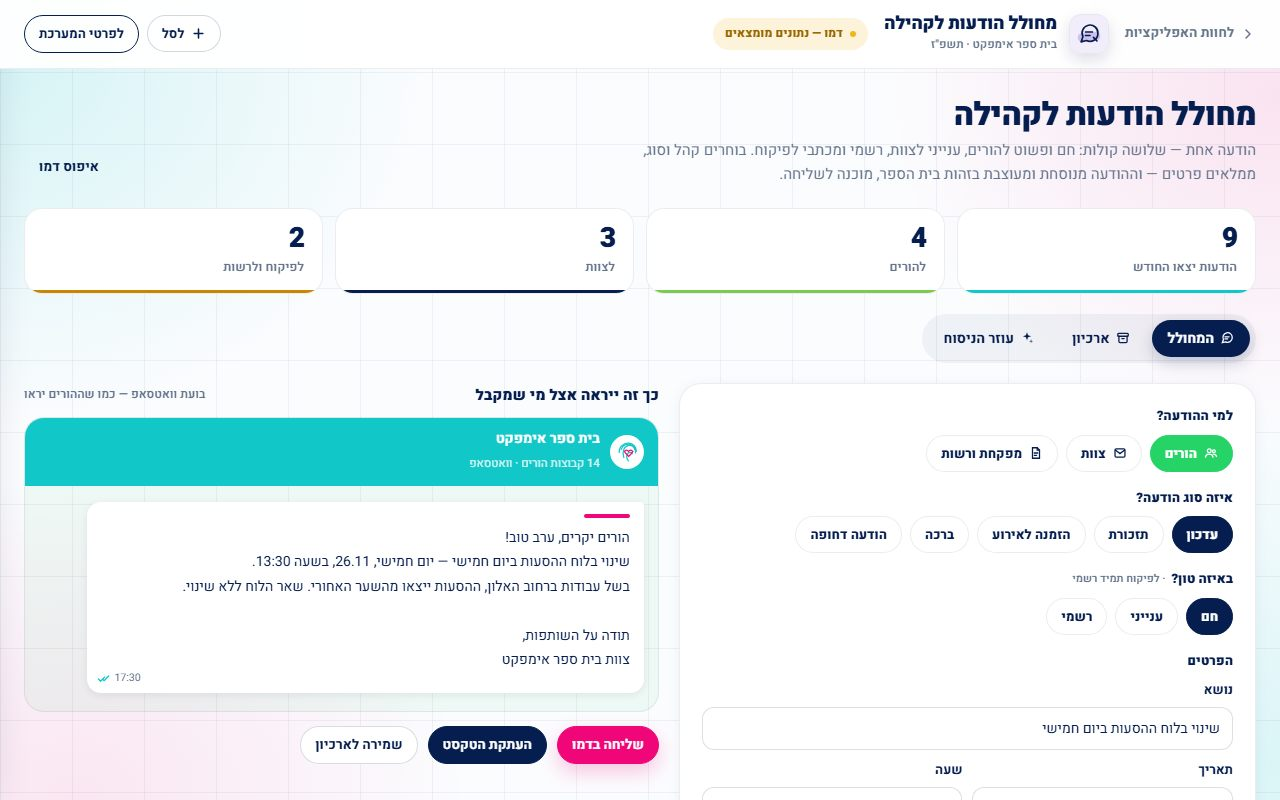
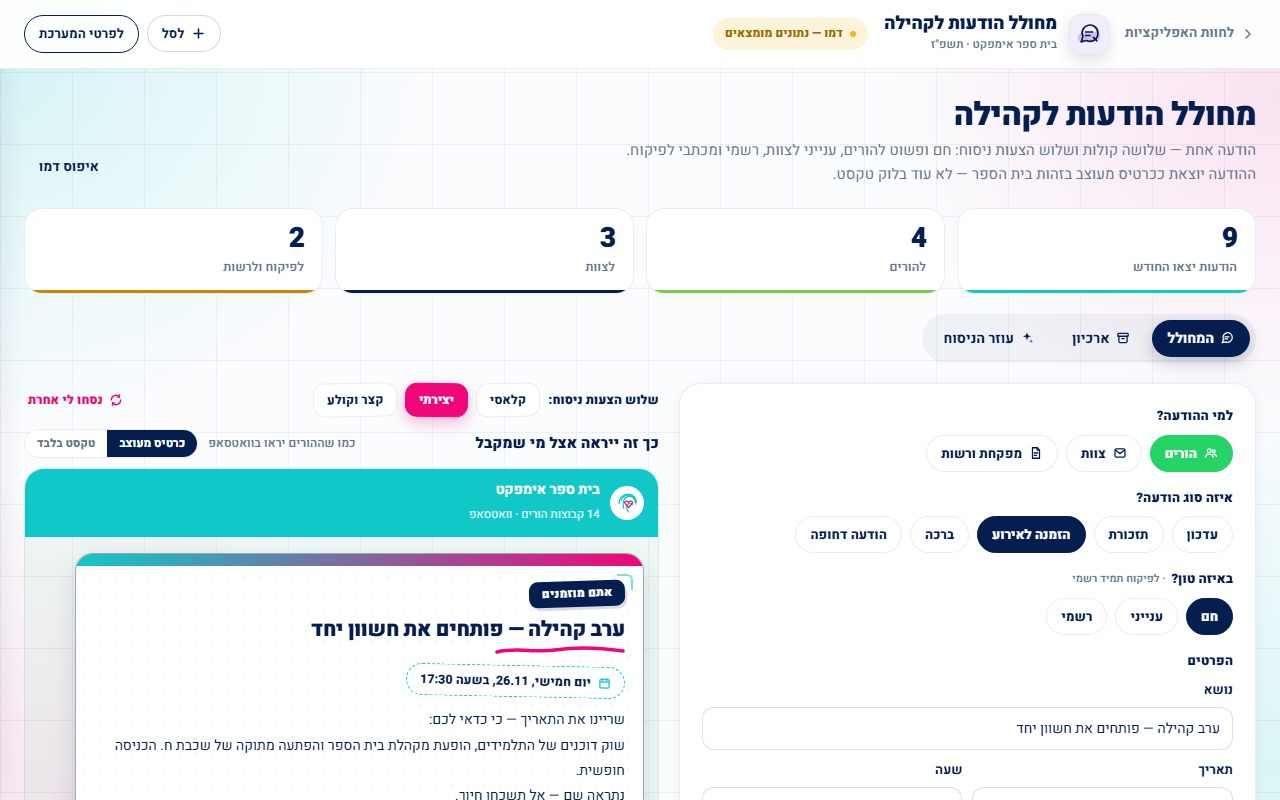
feat(message-composer): creative variants + designed studio cards
- שלוש הצעות ניסוח: קלאסי / יצירתי / קצר וקולע + "נסחו לי אחרת" (בנק פתיחים וסגירים)
- הפלט = כרטיס מעוצב בשפת הסטודיו: פס-גרדיאנט, סטיקר, קו-שרבוט, חותמת-תאריך,
  ניצוצות לברכה, פסי-אזהרה לדחוף; טוגל כרטיס/טקסט
- מכתב לפיקוח: ווטרמרק, פס-זהות עליון, הנדון עם היילייטר
- הודעה דחופה יצירתית = "העיקר בשלוש שורות" (מה קרה/מתי/מה עושים)

diff --git a/demo/message-composer.html b/demo/message-composer.html
@@ -41,12 +41,25 @@
   .pal.on { border-color: var(--navy); box-shadow: 0 0 0 2px #fff inset; }
   .pal-note { font-size: 11.5px; color: var(--gray); font-weight: 600; }
 
-  /* ─── תצוגה מקדימה ─── */
+  /* ─── שלוש ההצעות ─── */
+  .var-bar { display: flex; align-items: center; gap: 8px; flex-wrap: wrap; margin-bottom: 12px; }
+  .var-bar .lbl { font-size: 12.5px; font-weight: 900; color: var(--navy); }
+  .vpk { border: 1.5px solid var(--line); background: #fff; border-radius: 12px; padding: 7px 13px; font-family: inherit; font-size: 12.5px; font-weight: 800; color: var(--navy); cursor: pointer; transition: all 200ms var(--motion-ease); transform: rotate(-1deg); }
+  .vpk:nth-child(odd) { transform: rotate(1deg); }
+  .vpk:hover { transform: translateY(-2px); }
+  .vpk.on { background: var(--fuchsia); border-color: var(--fuchsia); color: #fff; box-shadow: 0 6px 16px rgba(240,6,120,.28); }
+  .shuffle { display: inline-flex; align-items: center; gap: 6px; border: none; background: none; color: var(--fuchsia); font-family: inherit; font-size: 12.5px; font-weight: 900; cursor: pointer; padding: 6px 4px; margin-inline-start: auto; }
+  .shuffle svg { width: 14px; height: 14px; transition: transform 400ms var(--motion-ease); }
+  .shuffle:hover svg { transform: rotate(180deg); }
+
   .prev-head { display: flex; align-items: center; justify-content: space-between; gap: 10px; margin-bottom: 10px; flex-wrap: wrap; }
   .prev-head h3 { font-size: 15px; font-weight: 900; }
   .prev-head .hint { font-size: 12px; color: var(--gray); font-weight: 600; }
+  .vw-toggle { display: inline-flex; border: 1px solid var(--line); border-radius: 999px; overflow: hidden; }
+  .vw-toggle button { border: none; background: #fff; font-family: inherit; font-size: 11.5px; font-weight: 800; color: var(--gray); padding: 5px 12px; cursor: pointer; }
+  .vw-toggle button.on { background: var(--navy); color: #fff; }
 
-  /* וואטסאפ */
+  /* ─── מסגרת וואטסאפ ─── */
   .wa { border: 1px solid var(--line); border-radius: 20px; overflow: hidden; background: rgba(37,211,102,.06); }
   .wa-top { display: flex; align-items: center; gap: 10px; padding: 10px 14px; background: var(--pc1, var(--teal)); color: #fff; }
   .wa-top .mark { width: 34px; height: 34px; border-radius: 50%; background: #fff; display: grid; place-items: center; flex: none; }
@@ -55,12 +68,36 @@
   .wa-top small { font-size: 11.5px; opacity: .85; }
   .wa-body { padding: 16px 14px 18px; min-height: 220px; }
   .bubble { position: relative; background: #fff; border-radius: 14px; border-top-right-radius: 4px; padding: 12px 14px 20px; max-width: 92%; box-shadow: 0 2px 8px rgba(6,30,79,.08); font-size: 14px; line-height: 1.75; white-space: pre-line; }
-  .bubble .accent { display: block; width: 46px; height: 4px; border-radius: 999px; background: var(--pc2, var(--fuchsia)); margin-bottom: 8px; }
-  .bubble .meta { position: absolute; bottom: 5px; left: 10px; display: flex; align-items: center; gap: 4px; font-size: 10.5px; color: var(--gray); }
-  .bubble .meta svg { width: 13px; height: 13px; color: var(--teal); }
+  .bubble .meta, .card-wrap .meta { position: absolute; bottom: 5px; left: 10px; display: flex; align-items: center; gap: 4px; font-size: 10.5px; color: var(--gray); }
+  .bubble .meta svg, .card-wrap .meta svg { width: 13px; height: 13px; color: var(--teal); }
+  .card-wrap { position: relative; max-width: 94%; padding-bottom: 20px; }
 
-  /* מכתב רשמי */
-  .letter { background: #fff; border: 1px solid var(--line); border-radius: 20px; padding: 28px 30px; box-shadow: 0 14px 36px rgba(6,30,79,.07); }
+  /* ─── הכרטיס המעוצב — שפת הסטודיו ─── */
+  .msgcard { position: relative; background: #fff; border: 1.5px solid rgba(6,30,79,.4); border-radius: 18px; padding: 0 18px 14px; overflow: hidden; box-shadow: 0 10px 28px rgba(6,30,79,.12); background-image: radial-gradient(rgba(6,30,79,.05) 1px, transparent 1.2px); background-size: 16px 16px; }
+  .mc-band { height: 12px; margin: 0 -18px 14px; background: linear-gradient(90deg, var(--pc1), var(--pc2)); }
+  .msgcard.t-urgent .mc-band { height: 16px; background: repeating-linear-gradient(-55deg, var(--navy) 0 12px, var(--pc2) 12px 24px); }
+  .mc-kicker { display: inline-block; background: var(--navy); color: #fff; font-size: 11.5px; font-weight: 900; letter-spacing: .3px; padding: 4px 13px; border-radius: 9px; transform: rotate(-2deg); box-shadow: 2px 3px 0 rgba(6,30,79,.15); }
+  .msgcard.t-urgent .mc-kicker { background: var(--pc2); }
+  .msgcard.t-greeting .mc-kicker { background: var(--pc2); }
+  .mc-title { display: block; font-size: 21px; font-weight: 900; letter-spacing: -.5px; line-height: 1.25; margin: 10px 0 0; color: var(--navy); }
+  .mc-scr { display: block; width: 130px; margin-top: 2px; }
+  .mc-when { display: inline-flex; align-items: center; gap: 7px; border: 1.5px dashed var(--pc1); border-radius: 999px; padding: 5px 13px; font-size: 12.5px; font-weight: 800; color: var(--navy); background: #fff; transform: rotate(1.2deg); margin-top: 10px; }
+  .mc-when svg { width: 13px; height: 13px; color: var(--pc1); }
+  .mc-body { font-size: 14px; line-height: 1.8; white-space: pre-line; margin-top: 10px; color: var(--navy); }
+  .mc-foot { display: flex; align-items: center; justify-content: space-between; gap: 8px; margin-top: 14px; padding-top: 10px; border-top: 1.5px dashed rgba(6,30,79,.18); font-size: 11.5px; font-weight: 800; color: var(--gray); }
+  .mc-foot .sch { display: inline-flex; align-items: center; gap: 6px; }
+  .mc-foot .sch svg { width: 18px; height: 18px; }
+  .mc-spark { position: absolute; width: 26px; height: 26px; color: var(--pc2); }
+  .mc-spark.a { top: 22px; left: 14px; }
+  .mc-spark.b { bottom: 52px; right: auto; left: 40px; width: 16px; height: 16px; color: var(--pc1); }
+  .mc-corner { position: absolute; width: 16px; height: 16px; border: 2.5px solid var(--pc1); opacity: .55; }
+  .mc-corner.tl { top: 20px; right: 10px; border-left: none; border-bottom: none; border-radius: 0 6px 0 0; }
+  .mc-corner.br { bottom: 8px; left: 10px; border-right: none; border-top: none; border-radius: 0 0 0 6px; }
+
+  /* ─── מכתב רשמי ─── */
+  .letter { position: relative; background: #fff; border: 1px solid var(--line); border-radius: 20px; padding: 28px 30px; box-shadow: 0 14px 36px rgba(6,30,79,.07); overflow: hidden; }
+  .lt-band { position: absolute; top: 0; right: 0; left: 0; height: 8px; background: linear-gradient(90deg, var(--pc1) 60%, var(--pc2)); }
+  .lt-wm { position: absolute; left: -34px; bottom: -46px; width: 220px; opacity: .05; transform: rotate(-12deg); pointer-events: none; }
   .lt-head { display: flex; align-items: center; justify-content: space-between; gap: 12px; border-bottom: 3px solid var(--pc1, var(--teal)); padding-bottom: 12px; margin-bottom: 16px; }
   .lt-head .who { display: flex; align-items: center; gap: 10px; }
   .lt-head .mark { width: 40px; height: 40px; border-radius: 12px; background: var(--pc1, var(--teal)); display: grid; place-items: center; }
@@ -69,12 +106,10 @@
   .lt-head small { font-size: 11.5px; color: var(--gray); font-weight: 600; }
   .lt-date { font-size: 12px; color: var(--gray); font-weight: 700; }
   .lt-to { font-size: 13.5px; font-weight: 700; margin-bottom: 4px; }
-  .lt-re { font-size: 14.5px; font-weight: 900; margin: 10px 0 12px; }
-  .lt-re i { display: inline-block; width: 8px; height: 8px; border-radius: 2px; background: var(--pc2, var(--fuchsia)); margin-inline-end: 7px; }
+  .lt-re { display: inline-block; font-size: 14.5px; font-weight: 900; margin: 10px 0 12px; background: linear-gradient(0deg, transparent 15%, color-mix(in srgb, var(--pc1) 26%, transparent) 15% 52%, transparent 52%); padding: 0 4px; }
   .lt-body { font-size: 13.5px; line-height: 1.9; white-space: pre-line; }
   .lt-sig { margin-top: 22px; font-size: 13.5px; font-weight: 700; }
-  .lt-sig small { display: block; color: var(--gray); font-weight: 600; font-size: 12px; }
-  @media (max-width: 520px) { .letter { padding: 18px 16px; } }
+  @media (max-width: 520px) { .letter { padding: 22px 16px; } }
 
   .prev-actions { display: flex; gap: 10px; flex-wrap: wrap; margin-top: 14px; }
 
@@ -84,7 +119,7 @@
   @media (max-width: 700px) { .atxt { max-width: 160px; } }
 
   @media print {
-    .demo-bar, .demo-foot, .demo-head, .tabs, .kpis, .gen > .card:first-child, .prev-actions, .prev-head, .toast, .cart-fab { display: none !important; }
+    .demo-bar, .demo-foot, .demo-head, .tabs, .kpis, .gen > .card:first-child, .prev-actions, .prev-head, .var-bar, .toast, .cart-fab { display: none !important; }
     body, .demo-main { background: #fff !important; padding: 0 !important; }
     .gen { grid-template-columns: 1fr; }
     .letter, .wa { box-shadow: none; border: none; }
@@ -97,7 +132,7 @@
   <div class="demo-head">
     <div>
       <h2>מחולל הודעות לקהילה</h2>
-      <p>הודעה אחת — שלושה קולות: חם ופשוט להורים, ענייני לצוות, רשמי ומכתבי לפיקוח. בוחרים קהל וסוג, ממלאים פרטים — וההודעה מנוסחת ומעוצבת בזהות בית הספר, מוכנה לשליחה.</p>
+      <p>הודעה אחת — שלושה קולות ושלוש הצעות ניסוח: חם ופשוט להורים, ענייני לצוות, רשמי ומכתבי לפיקוח. ההודעה יוצאת ככרטיס מעוצב בזהות בית הספר — לא עוד בלוק טקסט.</p>
     </div>
     <div class="demo-toolbar">
       <button type="button" class="btn-sm ghost" onclick="resetDemo()">איפוס דמו</button>
@@ -130,7 +165,17 @@
       </div>
 
       <div>
-        <div class="prev-head"><h3>כך זה ייראה אצל מי שמקבל</h3><span class="hint" id="prevHint"></span></div>
+        <div class="var-bar" id="varBar"></div>
+        <div class="prev-head">
+          <h3>כך זה ייראה אצל מי שמקבל</h3>
+          <div style="display:flex;align-items:center;gap:10px">
+            <span class="hint" id="prevHint"></span>
+            <span class="vw-toggle" id="vwToggle" style="display:none">
+              <button type="button" id="vwCard" onclick="cur.view='card';renderPrev()">כרטיס מעוצב</button>
+              <button type="button" id="vwText" onclick="cur.view='text';renderPrev()">טקסט בלבד</button>
+            </span>
+          </div>
+        </div>
         <div id="prevBox"></div>
         <div class="prev-actions">
           <button type="button" class="btn-sm primary" onclick="sendDemo()">שליחה בדמו</button>
@@ -162,7 +207,7 @@
 
   /* ───────── הגדרות ───────── */
   var AUD = {
-    parents: { name: 'הורים', c: '#25D366', chan: '14 קבוצות הורים · וואטסאפ', hint: 'בועת וואטסאפ — כמו שההורים יראו',
+    parents: { name: 'הורים', c: '#25D366', chan: '14 קבוצות הורים · וואטסאפ', hint: 'כמו שההורים יראו בוואטסאפ',
       svg: '<svg viewBox="0 0 24 24" fill="none" stroke="currentColor" stroke-width="2.2" stroke-linecap="round"><circle cx="9" cy="8" r="3.2"/><path d="M2.5 19c.5-3.3 3-5 6.5-5s6 1.7 6.5 5"/><circle cx="17" cy="9" r="2.5"/><path d="M16 14c2.8 0 4.8 1.4 5.5 4"/></svg>' },
     staff:   { name: 'צוות', c: '#12C7C7', chan: 'קבוצת הצוות · וואטסאפ ומייל', hint: 'הודעת צוות — עניינית וברורה',
       svg: '<svg viewBox="0 0 24 24" fill="none" stroke="currentColor" stroke-width="2.2" stroke-linecap="round"><rect x="3.5" y="5" width="17" height="14" rx="2"/><path d="m4 7 8 6 8-6"/></svg>' },
@@ -177,7 +222,9 @@
     ['urgent',   'הודעה דחופה'],
     ['report',   'דיווח לפיקוח']
   ];
+  var KICKER = { update: 'עדכון מבית הספר', reminder: 'לא לשכוח', event: 'אתם מוזמנים', greeting: 'חוגגים יחד', urgent: 'עדכון חשוב', report: 'דיווח' };
   var TONES = [['warm', 'חם'], ['plain', 'ענייני'], ['formal', 'רשמי']];
+  var VARIANTS = [['classic', 'קלאסי'], ['creative', 'יצירתי'], ['short', 'קצר וקולע']];
   var PALETTES = [
     { id: 'impact', name: 'אימפקט', c1: '#12C7C7', c2: '#F00678' },
     { id: 'yam',    name: 'ים',      c1: '#0B7DB5', c2: '#12C7C7' },
@@ -188,8 +235,12 @@
     arch: '<svg viewBox="0 0 24 24" fill="none" stroke="currentColor" stroke-width="2.2" stroke-linecap="round"><rect x="3" y="4" width="18" height="5" rx="1.5"/><path d="M5 9v9a2 2 0 0 0 2 2h10a2 2 0 0 0 2-2V9"/><path d="M10 13h4"/></svg>',
     spark: '<svg viewBox="0 0 24 24" fill="currentColor"><path d="M12 2l1.8 5.2L19 9l-5.2 1.8L12 16l-1.8-5.2L5 9l5.2-1.8z"/><path d="M19 14l.9 2.6L22.5 17.5l-2.6.9L19 21l-.9-2.6-2.6-.9 2.6-.9z" opacity=".7"/></svg>',
     check: '<svg viewBox="0 0 24 24" fill="none" stroke="currentColor" stroke-width="2.4" stroke-linecap="round" stroke-linejoin="round"><path d="M2.5 13l4 4L14 9.5"/><path d="M10.5 13.5 13 16l8.5-8.5"/></svg>',
+    calx: '<svg viewBox="0 0 24 24" fill="none" stroke="currentColor" stroke-width="2.2" stroke-linecap="round"><rect x="3.5" y="5" width="17" height="15.5" rx="2"/><path d="M3.5 9.5h17M8 3v4M16 3v4"/></svg>',
+    shuffle: '<svg viewBox="0 0 24 24" fill="none" stroke="currentColor" stroke-width="2.2" stroke-linecap="round"><path d="M4 12a8 8 0 0 1 14-5.3M20 12a8 8 0 0 1-14 5.3"/><path d="M18 3v4h-4M6 21v-4h4"/></svg>',
+    sparkle: '<svg viewBox="0 0 24 24" fill="currentColor"><path d="M12 2l1.8 5.2L19 9l-5.2 1.8L12 16l-1.8-5.2L5 9l5.2-1.8z"/></svg>',
     school: '<svg viewBox="0 0 240 284" fill="none"><g stroke="CUR1" stroke-width="16" stroke-linecap="round"><path d="M45 110C57 55 118 26 171 48C212 65 235 107 230 153"/><path d="M19 149C16 79 73 23 142 27C199 30 242 77 240 133"/><path d="M79 212C52 136 82 70 142 57C180 49 213 72 220 110"/><path d="M137 255C110 226 110 183 132 158C149 140 177 143 190 164"/></g><g stroke="CUR2" stroke-width="16" stroke-linecap="round"><path d="M88 135C100 111 126 112 140 136C154 111 181 111 194 136"/><path d="M88 135C102 164 127 184 141 199C156 184 181 163 194 136"/></g></svg>'
   };
+  var SCRIBBLE = '<svg class="mc-scr" viewBox="0 0 130 10" fill="none" aria-hidden="true"><path d="M2 7C22 2 40 8 60 5S100 2 128 6" stroke="CUR" stroke-width="3.5" stroke-linecap="round"/></svg>';
   function schoolMark(c1, c2, white) {
     return ICONS.school.replace('CUR1', white ? '#FFFFFF' : c1).replace('CUR2', white ? '#FFFFFF' : c2);
   }
@@ -197,16 +248,17 @@
   /* ───────── state ───────── */
   var KEY = 'farm-demo-message-composer';
   var S = {};
-  var cur = { aud: 'parents', type: 'update', tone: 'warm', palette: 'impact',
-    subject: 'שינוי בלוח ההסעות ביום חמישי',
-    date: 'יום חמישי, 26.11', time: '13:30',
-    details: 'בשל עבודות ברחוב האלון, ההסעות ייצאו מהשער האחורי. שאר הלוח ללא שינוי.' };
+  var shuffleN = 0;
+  var cur = { aud: 'parents', type: 'event', tone: 'warm', variant: 'creative', view: 'card', palette: 'impact',
+    subject: 'ערב קהילה — פותחים את חשוון יחד',
+    date: 'יום חמישי, 26.11', time: '17:30',
+    details: 'שוק דוכנים של התלמידים, הופעת מקהלת בית הספר והפתעה מתוקה של שכבת ח. הכניסה חופשית.' };
 
   function genState() {
     S = { archive: [
-      { d: '20.11', aud: 'parents', type: 'update',   subject: 'שינוי בלוח ההסעות ביום חמישי' },
+      { d: '20.11', aud: 'parents', type: 'event',    subject: 'ערב קהילה — פותחים את חשוון יחד' },
       { d: '19.11', aud: 'staff',   type: 'reminder', subject: 'הגשת ציוני אמצע סמסטר עד יום שני' },
-      { d: '17.11', aud: 'parents', type: 'event',    subject: 'ערב הורים שכבת ז — פתיחת רישום' },
+      { d: '17.11', aud: 'parents', type: 'update',   subject: 'שינוי בלוח ההסעות ביום חמישי' },
       { d: '16.11', aud: 'sup',     type: 'report',   subject: 'עדכון חודשי — תוכנית מצוינות במתמטיקה' },
       { d: '12.11', aud: 'staff',   type: 'update',   subject: 'ישיבת צוות מלא — שינוי מיקום' },
       { d: '10.11', aud: 'parents', type: 'greeting', subject: 'ברכת הצלחה לנבחרת הרובוטיקה' },
@@ -217,9 +269,36 @@
   }
   function load() { try { var j = localStorage.getItem(KEY); if (j) { S = JSON.parse(j); return; } } catch (e) {} genState(); }
   function save() { try { localStorage.setItem(KEY, JSON.stringify(S)); } catch (e) {} }
-  function resetDemo() { try { localStorage.removeItem(KEY); } catch (e) {} genState(); renderKpis(); renderPicks(); renderPrev(); showTab('gen'); DemoShell.toast('הדמו אופס לנתוני ההתחלה'); }
+  function resetDemo() { try { localStorage.removeItem(KEY); } catch (e) {} genState(); shuffleN = 0; renderKpis(); renderPicks(); renderPrev(); showTab('gen'); DemoShell.toast('הדמו אופס לנתוני ההתחלה'); }
 
-  /* ───────── ניסוח: פתיח + גוף + חתימה, לפי קהל וטון ───────── */
+  /* ───────── בנקי ניסוח — ההצעות היצירתיות ───────── */
+  function pick(arr) { return arr[shuffleN % arr.length]; }
+  var HOOKS = {
+    update:   { parents: ['מה חדש אצלנו? שווה לדעת:', 'עדכון קטן שעושה סדר בשבוע:', 'שקיפות זה ערך אצלנו — אז מעדכנים:'],
+                staff:   ['רגע של סנכרון, צוות:', 'שווה לעצור שנייה ולקרוא:', 'עדכון קצר לפני שממשיכים ביום:'] },
+    reminder: { parents: ['לפני שזה בורח מהראש —', 'תזכורת ידידותית, בלי לחץ:', 'סימנתם ביומן? אם עוד לא — עכשיו:'],
+                staff:   ['חלון אחרון, צוות יקר:', 'תזכורת קטנה עם דד-ליין גדול:', 'שלא יגידו שלא הזכרנו:'] },
+    event:    { parents: ['שריינו את התאריך — כי כדאי לכם:', 'ערב אחד. קהילה שלמה. אתם בפנים?', 'משהו יפה מתבשל אצלנו:'],
+                staff:   ['שווה להגיע, מבטיחים:', 'שריינו ביומן — נתראה שם:', 'ערב שכולו שלנו:'] },
+    greeting: { parents: ['יש רגעים שממלאים את הלב —', 'עצרו הכול: יש לנו סיבה לחגוג.', 'קצת אור באמצע השבוע:'],
+                staff:   ['רגע של גאווה, לפני הכול:', 'דברים כאלה לא מובנים מאליהם:', 'שווה לחגוג, ובקול:'] }
+  };
+  var CLOSERS = {
+    event:    { parents: ['נתראה שם — אל תשכחו חיוך.', 'מי שמגיע — לא מתחרט.', 'מחכים לכם בשער.'],
+                staff:   ['בואו בהמוניכם.', 'נשמח לראות את כולם.', 'זה הערב שלנו — אל תפספסו.'] },
+    greeting: { parents: ['איזה כיף שיש מה לחגוג יחד.', 'גאים בהם — וגם בכם.', 'זה בזכות כל הקהילה שלנו.'],
+                staff:   ['גאים לעבוד לצידכם.', 'זה הצוות שיש לנו — ואיזה מזל.', 'המשיכו כך, זה מדבק.'] }
+  };
+  function hookFor() {
+    var h = HOOKS[cur.type]; if (!h) return '';
+    return pick(h[cur.aud === 'staff' ? 'staff' : 'parents']);
+  }
+  function closerFor() {
+    var c = CLOSERS[cur.type]; if (!c) return '';
+    return pick(c[cur.aud === 'staff' ? 'staff' : 'parents']);
+  }
+  function firstSentence(t) { var i = t.indexOf('.'); return i === -1 ? t : t.slice(0, i + 1); }
+
   function typeName(t) { for (var i = 0; i < TYPES.length; i++) if (TYPES[i][0] === t) return TYPES[i][1]; return t; }
   function opening() {
     if (cur.aud === 'sup') return '';
@@ -238,19 +317,55 @@
     if (cur.time) w.push('בשעה ' + cur.time);
     return w.join(', ');
   }
-  function body() {
-    var s = cur.subject || 'ההודעה שלכם', d = cur.details || '', w = whenLine();
+
+  /* גוף ההודעה לפי הצעה. card=true — לכרטיס המעוצב, שבו הכותרת והחותמת כבר נושאות את הנושא והמועד */
+  function bodyFor(card) {
+    var s = cur.subject || 'ההודעה שלכם', d = cur.details || '', w = whenLine(), v = cur.variant;
+    if (card && cur.aud !== 'sup') {
+      if (v === 'short') return firstSentence(d) || 'כל הפרטים אצל המחנכות.';
+      if (v === 'creative') {
+        if (cur.type === 'urgent') return 'מה חשוב לדעת:\n' + (d || 'נעדכן בהמשך.') + '\nנעדכן בכל שינוי.';
+        var hk = hookFor(), cl = closerFor();
+        return (hk ? hk + '\n' : '') + d + (cl ? '\n' + cl : '');
+      }
+      if (cur.type === 'event') return d + '\nמחכים לכם.';
+      if (cur.type === 'greeting') return d + (cur.tone === 'warm' ? '\nגאים ושמחים לחגוג יחד אתכם.' : '');
+      if (cur.type === 'urgent') return d + (cur.aud === 'parents' ? '\nנעדכן בכל שינוי. תודה על ההבנה.' : '');
+      return d;
+    }
+    if (cur.aud === 'sup') {
+      if (cur.type === 'report') {
+        if (v === 'creative') {
+          var bullets = d.split('.').map(function (x) { return x.trim(); }).filter(Boolean).map(function (x) { return '• ' + x + '.'; }).join('\n');
+          return 'להלן עיקרי הדברים:\n' + bullets + (w ? '\n• מועד רלוונטי: ' + w + '.' : '') + '\n\nנשמח להציג את הדברים מקרוב בביקורכם הקרוב.';
+        }
+        if (v === 'short') return 'עדכון תמציתי: ' + firstSentence(d) + ' פירוט מלא יועבר על פי בקשה.';
+        return 'הריני להעביר עדכון בנושא שבנדון.' + (d ? '\n' + d : '') + (w ? '\nמועד רלוונטי: ' + w + '.' : '') + '\nנשמח להרחיב בכל ערוץ שיידרש, ומזמינים אתכם להתרשם מקרוב.';
+      }
+      if (v === 'short') return s + (w ? ' — ' + w : '') + '. ' + firstSentence(d);
+      if (v === 'creative') return 'בפתח הדברים — ' + s + (w ? ' (' + w + ')' : '') + '.\n' + d + '\nנשמח לשיתוף פעולה ולכל הערה.';
+      return s + (w ? ' — ' + w : '') + '.' + (d ? '\n' + d : '');
+    }
+    if (v === 'short') {
+      var line = s + (w ? ' — ' + w : '') + '.';
+      if (cur.type === 'urgent') return line + '\n' + firstSentence(d);
+      return line + (d ? '\n' + firstSentence(d) : '');
+    }
+    if (v === 'creative') {
+      if (cur.type === 'urgent') return 'העיקר, בשלוש שורות:\n— מה קרה: ' + s + '.\n— מתי: ' + (w || 'החל מעכשיו') + '.\n— מה עושים: ' + (d || 'ממשיכים כרגיל, נעדכן בכל שינוי') + '';
+      var hook = hookFor(), close = closerFor();
+      return hook + '\n' + s + (w ? ' — ' + w : '') + '.' + (d ? '\n' + d : '') + (close ? '\n' + close : '');
+    }
+    /* classic */
     if (cur.type === 'update') return s + (w ? ' — ' + w : '') + '.' + (d ? '\n' + d : '');
     if (cur.type === 'reminder') return (cur.tone === 'warm' ? 'תזכורת קטנה: ' : 'תזכורת: ') + s + (w ? ' — ' + w : '') + '.' + (d ? '\n' + d : '');
-    if (cur.type === 'event') return (cur.aud === 'parents' && cur.tone === 'warm' ? 'נשמח לראותכם! ' : '') + (w ? 'ב' + w + ' ' : '') + 'יתקיים: ' + s + '.' + (d ? '\n' + d : '') + (cur.aud !== 'sup' ? '\nמחכים לכם.' : '');
+    if (cur.type === 'event') return (cur.tone === 'warm' ? 'נשמח לראותכם! ' : '') + (w ? 'ב' + w + ' ' : '') + 'יתקיים: ' + s + '.' + (d ? '\n' + d : '') + '\nמחכים לכם.';
     if (cur.type === 'greeting') return s + '!' + (d ? '\n' + d : '') + (cur.tone === 'warm' ? '\nגאים ושמחים לחגוג יחד אתכם.' : '');
-    if (cur.type === 'urgent') return (cur.aud === 'sup' ? 'הריני לעדכן על אירוע חריג: ' : 'עדכון חשוב: ') + s + (w ? ' — ' + w : '') + '.' + (d ? '\n' + d : '') + (cur.aud === 'parents' ? '\nנעדכן בכל שינוי. תודה על הסבלנות וההבנה.' : '');
-    /* report — לפיקוח */
-    return 'הריני להעביר עדכון בנושא שבנדון.' + (d ? '\n' + d : '') + (w ? '\nמועד רלוונטי: ' + w + '.' : '') + '\nנשמח להרחיב בכל ערוץ שיידרש, ומזמינים אתכם להתרשם מקרוב.';
+    return 'עדכון חשוב: ' + s + (w ? ' — ' + w : '') + '.' + (d ? '\n' + d : '') + (cur.aud === 'parents' ? '\nנעדכן בכל שינוי. תודה על ההבנה.' : '');
   }
   function fullText() {
-    if (cur.aud === 'sup') return body() + '\n\n' + closing();
-    return opening() + '\n' + body() + '\n\n' + closing();
+    if (cur.aud === 'sup') return bodyFor() + '\n\n' + closing();
+    return opening() + '\n' + bodyFor() + '\n\n' + closing();
   }
 
   /* ───────── KPI ───────── */
@@ -302,31 +417,62 @@
     renderPicks(); renderPrev();
   }
 
+  /* ───────── שלוש ההצעות + ערבוב ───────── */
+  function renderVarBar() {
+    document.getElementById('varBar').innerHTML = '<span class="lbl">שלוש הצעות ניסוח:</span>'
+      + VARIANTS.map(function (v) { return '<button type="button" class="vpk' + (cur.variant === v[0] ? ' on' : '') + '" onclick="cur.variant=\'' + v[0] + '\';renderPrev()">' + v[1] + '</button>'; }).join('')
+      + (cur.variant === 'creative' ? '<button type="button" class="shuffle" onclick="shuffleN++;renderPrev()">' + ICONS.shuffle + 'נסחו לי אחרת</button>' : '');
+  }
+
   /* ───────── תצוגה מקדימה ───────── */
   function pal() { return PALETTES.filter(function (p) { return p.id === cur.palette; })[0]; }
+  function cardHTML(P) {
+    var w = whenLine();
+    var deco = '';
+    if (cur.type === 'greeting') deco = '<span class="mc-spark a">' + ICONS.sparkle + '</span><span class="mc-spark b">' + ICONS.sparkle + '</span>';
+    else if (cur.type !== 'urgent') deco = '<span class="mc-corner tl"></span><span class="mc-corner br"></span>';
+    return '<div class="msgcard t-' + cur.type + '">'
+      + '<div class="mc-band"></div>' + deco
+      + '<span class="mc-kicker">' + KICKER[cur.type] + '</span>'
+      + '<span class="mc-title">' + DemoShell.esc(cur.subject || 'ההודעה שלכם') + '</span>'
+      + SCRIBBLE.replace('CUR', P.c2)
+      + (w ? '<span class="mc-when">' + ICONS.calx + w + '</span>' : '')
+      + '<div class="mc-body">' + DemoShell.esc(bodyFor(true)) + '</div>'
+      + '<div class="mc-foot"><span class="sch">' + schoolMark(P.c1, P.c2, false) + 'בית ספר אימפקט</span><span>' + AUD[cur.aud].chan.split(' · ')[0] + '</span></div>'
+      + '</div>';
+  }
   function renderPrev() {
     var P = pal(), box = document.getElementById('prevBox');
+    renderVarBar();
     document.getElementById('prevHint').textContent = AUD[cur.aud].hint;
     document.getElementById('printBtn').style.display = cur.aud === 'sup' ? '' : 'none';
+    var tg = document.getElementById('vwToggle');
+    tg.style.display = cur.aud === 'sup' ? 'none' : '';
+    document.getElementById('vwCard').className = cur.view === 'card' ? 'on' : '';
+    document.getElementById('vwText').className = cur.view === 'text' ? 'on' : '';
     if (cur.aud === 'sup') {
       box.innerHTML = '<div class="letter" style="--pc1:' + P.c1 + ';--pc2:' + P.c2 + '">'
+        + '<div class="lt-band"></div><div class="lt-wm">' + schoolMark(P.c1, P.c2, false) + '</div>'
         + '<div class="lt-head"><div class="who"><span class="mark">' + schoolMark(P.c1, P.c2, true) + '</span><div><b>בית ספר אימפקט</b><small>' + DEMO.school.city + ' · שנה"ל ' + DEMO.school.year + '</small></div></div><span class="lt-date">כ׳ בחשוון תשפ"ז · 20.11.2026</span></div>'
         + '<div class="lt-to">לכבוד: המפקחת הכוללת, גב׳ ד. אלמוג</div>'
-        + '<div class="lt-re"><i></i>הנדון: ' + DemoShell.esc(cur.subject || '—') + '</div>'
+        + '<span class="lt-re">הנדון: ' + DemoShell.esc(cur.subject || '—') + '</span>'
         + '<div class="lt-body">' + DemoShell.esc(fullText()) + '</div>'
         + '<div class="lt-sig"></div>'
         + '</div>';
     } else {
+      var inner = cur.view === 'card'
+        ? '<div class="card-wrap">' + cardHTML(P) + '<span class="meta">17:30 ' + ICONS.check + '</span></div>'
+        : '<div class="bubble">' + DemoShell.esc(fullText()) + '<span class="meta">17:30 ' + ICONS.check + '</span></div>';
       box.innerHTML = '<div class="wa" style="--pc1:' + P.c1 + ';--pc2:' + P.c2 + '">'
         + '<div class="wa-top"><span class="mark">' + schoolMark(P.c1, P.c2, false) + '</span><div><b>בית ספר אימפקט</b><small>' + AUD[cur.aud].chan + '</small></div></div>'
-        + '<div class="wa-body"><div class="bubble"><span class="accent"></span>' + DemoShell.esc(fullText()) + '<span class="meta">17:30 ' + ICONS.check + '</span></div></div>'
+        + '<div class="wa-body">' + inner + '</div>'
         + '</div>';
     }
   }
 
   /* ───────── פעולות ───────── */
   function sendDemo() {
-    var msg = cur.aud === 'parents' ? 'נשלח ל-14 קבוצות ההורים דרך מרכז הוואטסאפ (בדמו)'
+    var msg = cur.aud === 'parents' ? 'הכרטיס נשלח ל-14 קבוצות ההורים דרך מרכז הוואטסאפ (בדמו)'
       : cur.aud === 'staff' ? 'נשלח לקבוצת הצוות ולמייל של 34 אנשי צוות (בדמו)'
       : 'המכתב נשלח במייל למפקחת — עותק נשמר בארכיון (בדמו)';
     pushArch(); renderKpis(); DemoShell.toast(msg);
@@ -374,7 +520,7 @@
     var a = AI_DRAFTS[d];
     cur.aud = a.aud; cur.type = a.type; cur.tone = a.tone; cur.subject = a.subject; cur.details = a.details; cur.date = ''; cur.time = '';
     renderPicks(); renderPrev(); showTab('gen');
-    DemoShell.toast('הטיוטה נטענה למחולל — בחרו עיצוב ושלחו');
+    DemoShell.toast('הטיוטה נטענה למחולל — בחרו הצעה ועיצוב ושלחו');
   }
 
   /* ───────── הפעלה ───────── */
